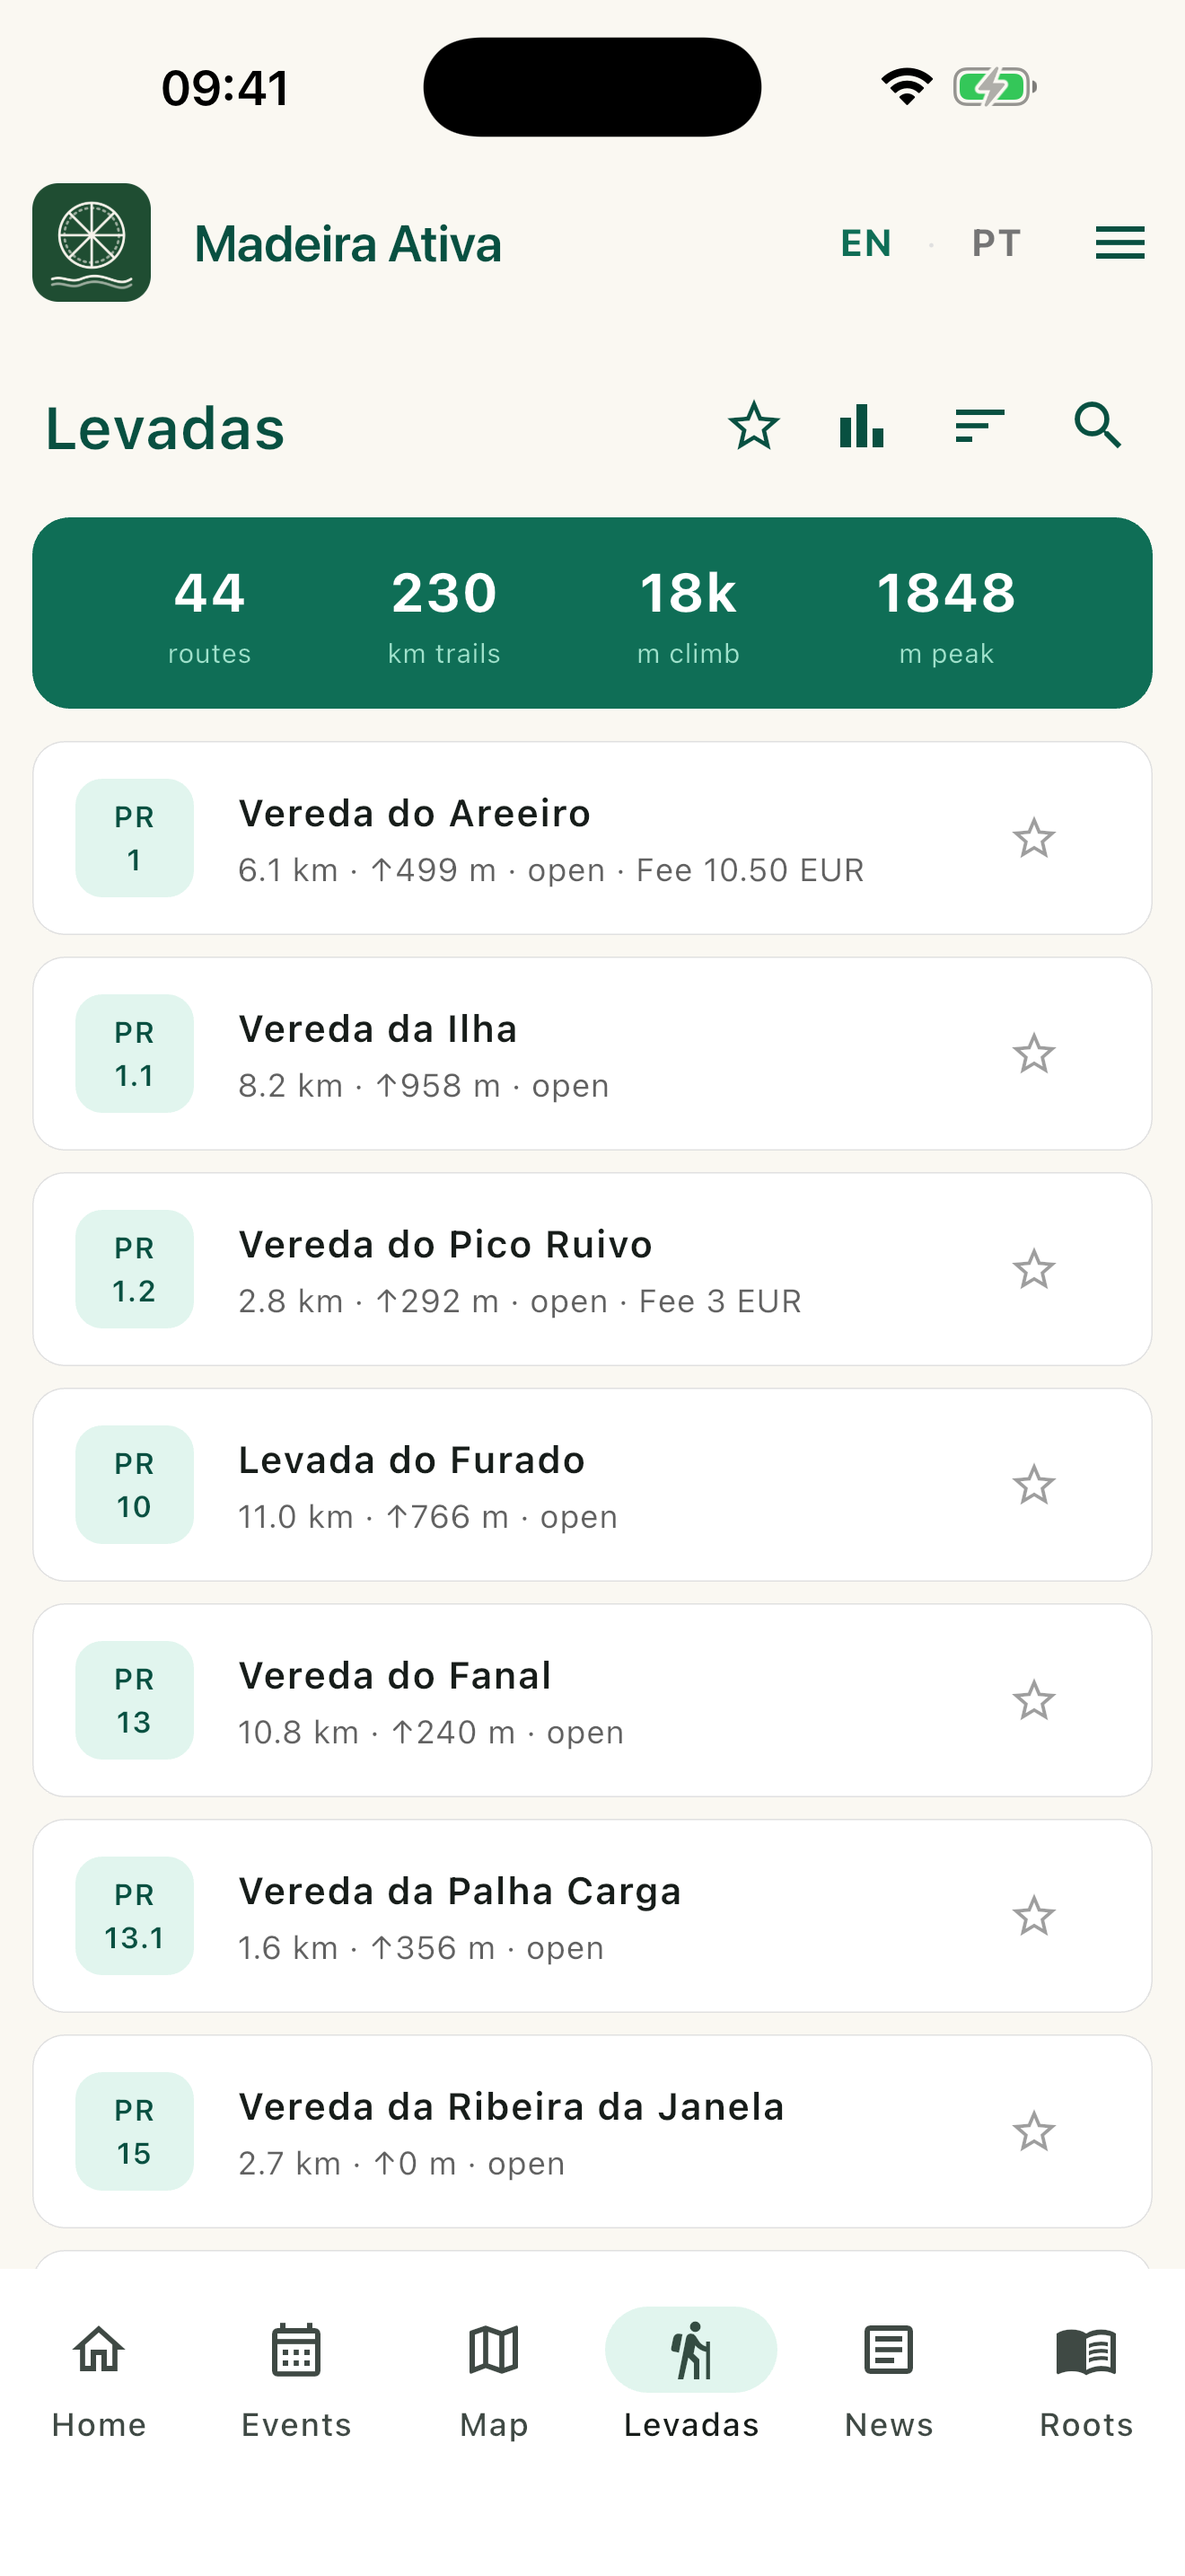
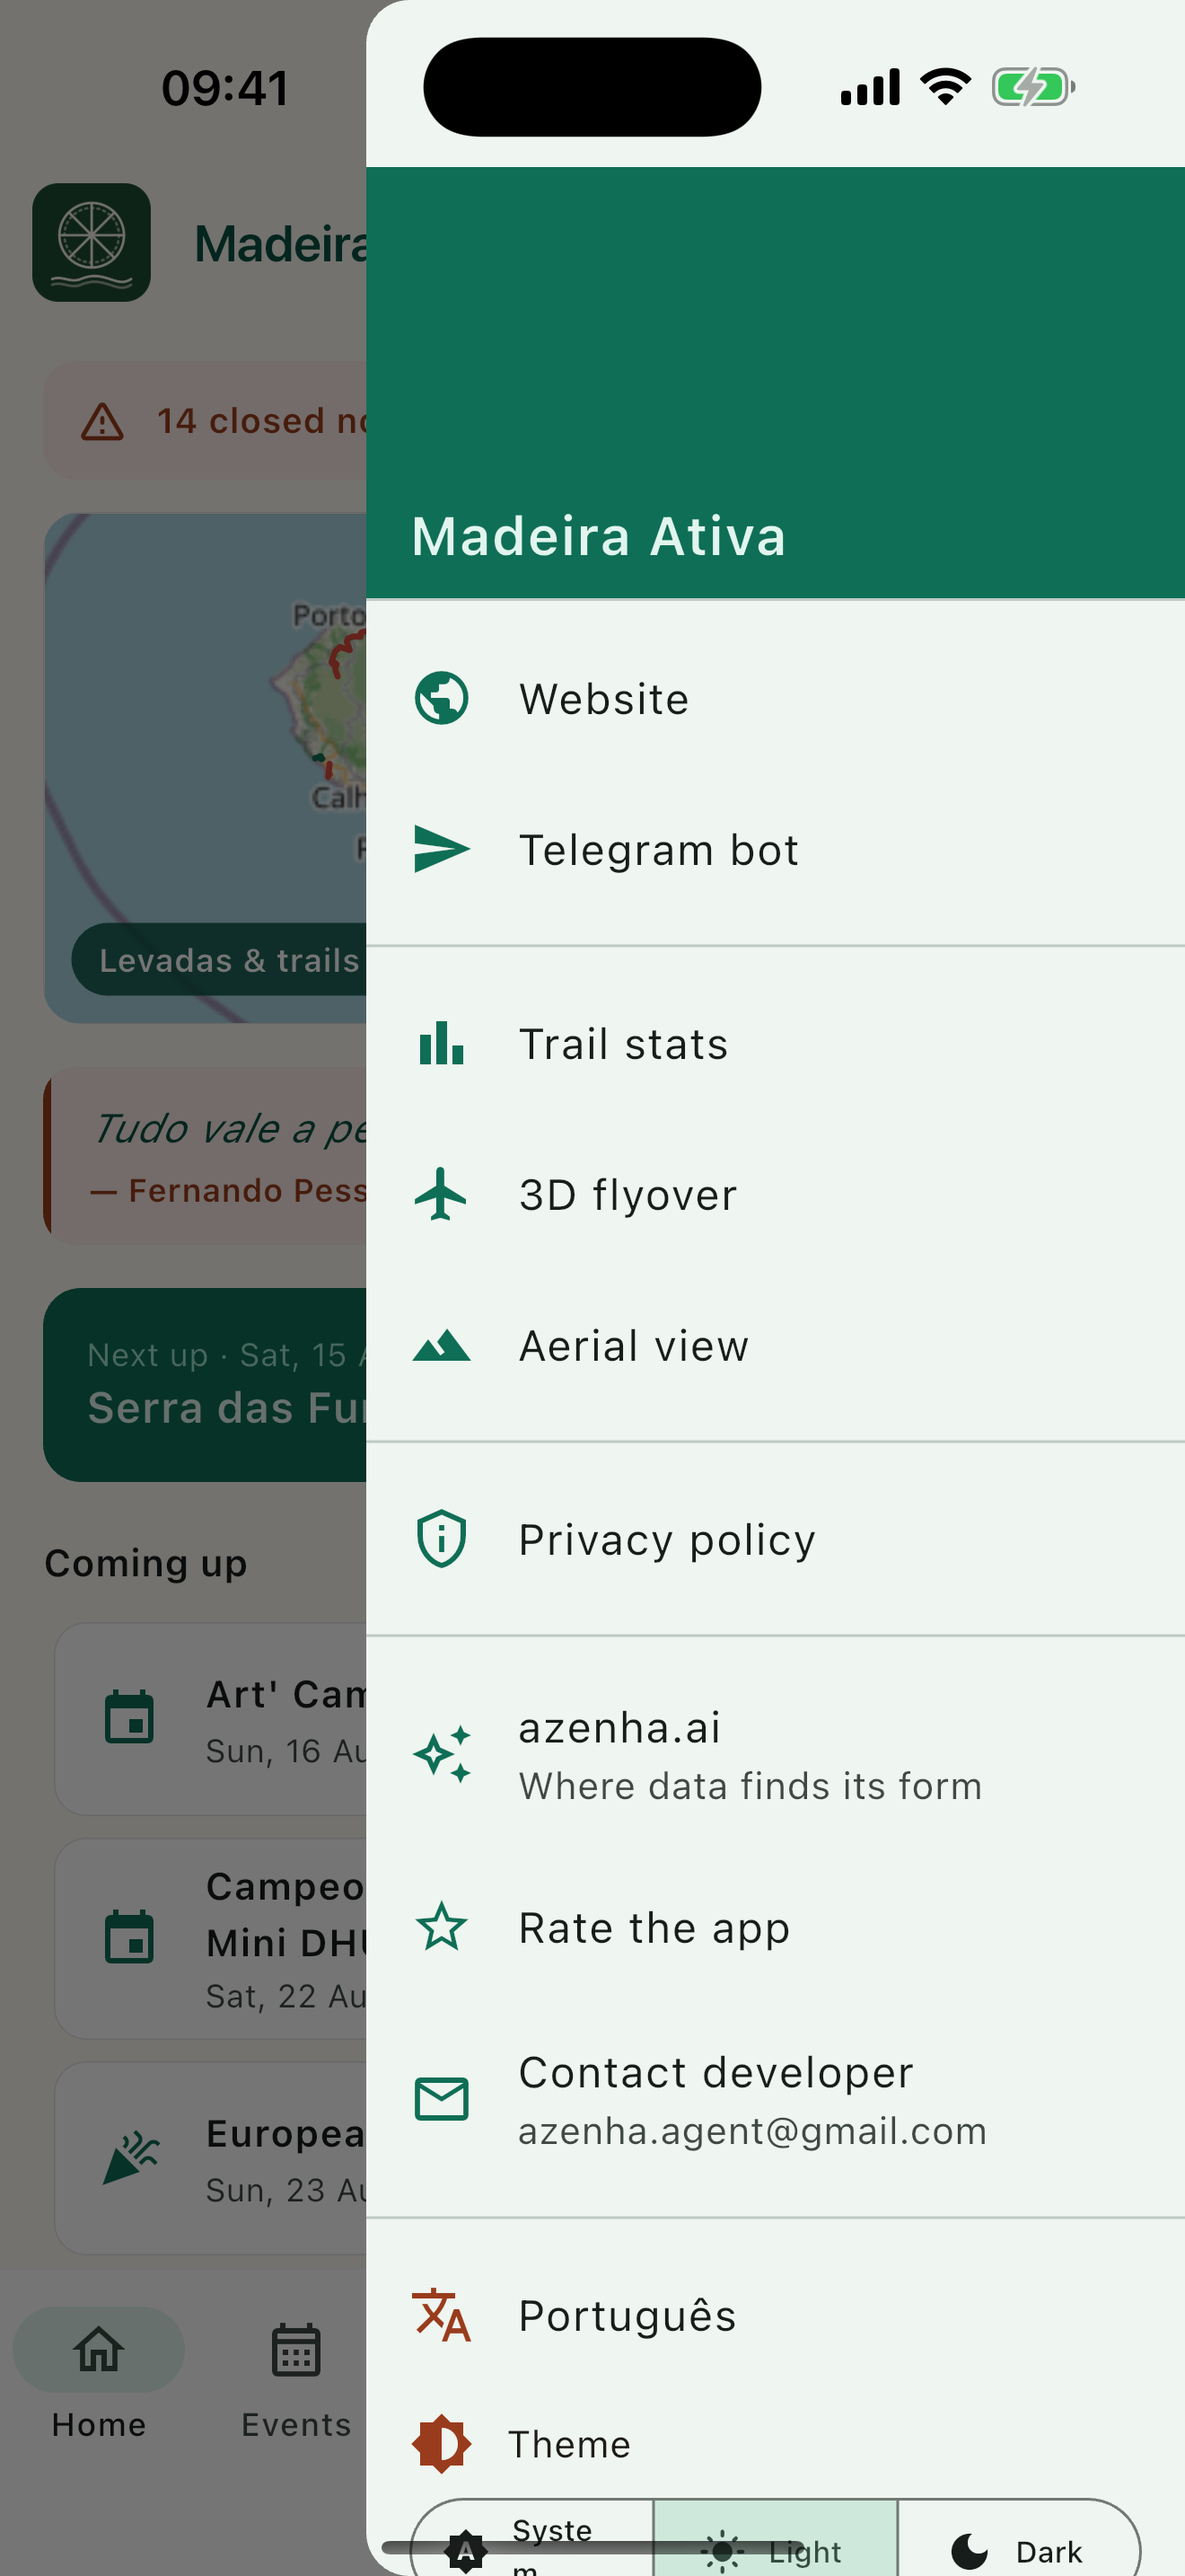
The map agrees with the list about partially open trails, and the album counts itself
The map's trail sheet asked `status == 'open'` and rendered everything else as
a red cross labelled closed. A partially open trail — 5 of the 44 today — was
therefore shown as shut on the map and as partial in the list, and the map is
where someone stands deciding whether to walk. Three states now, same as the row.

The album subtitle claimed nineteen pictures in both languages. roots_data.dart
holds eighteen; the nineteenth match was the constructor.

diff --git a/lib/main.dart b/lib/main.dart
@@ -90,7 +90,7 @@ const _tr = {
     'timeline': 'The timeline',
     'timeline_sub': 'Six hundred years in six chapters — worth a slow scroll.',
     'album': 'The Album',
-    'album_sub': 'Nineteen pictures of old Madeira.',
+    'album_sub': 'Eighteen pictures of old Madeira.',
     'pessoa': 'Tudo vale a pena se a alma não é pequena.',
     'pessoa_by': '— Fernando Pessoa',
     'stat_routes': 'routes',
@@ -178,7 +178,7 @@ const _tr = {
     'timeline': 'A linha do tempo',
     'timeline_sub': 'Seiscentos anos em seis capítulos — vale a pena descer devagar.',
     'album': 'O Álbum',
-    'album_sub': 'Dezanove imagens da Madeira antiga.',
+    'album_sub': 'Dezoito imagens da Madeira antiga.',
     'pessoa': 'Tudo vale a pena se a alma não é pequena.',
     'pessoa_by': '— Fernando Pessoa',
     'stat_routes': 'percursos',
@@ -2319,10 +2319,15 @@ class _MapPageState extends State<MapPage> {
               Text(' ${l.distance} km   '),
               const Icon(Icons.trending_up, size: 16, color: kGreen),
               Text(' ↑${l.ascent} m   '),
-              Icon(l.status == 'open' ? Icons.check_circle : Icons.cancel,
+              Icon(
+                  l.isOpen
+                      ? Icons.check_circle
+                      : (l.isPartial ? Icons.error_outline : Icons.cancel),
                   size: 16,
-                  color: l.status == 'open' ? kGreen : Colors.red),
-              Text(' ${t(l.status == 'open' ? 'open' : 'closed')}'),
+                  color: l.isOpen
+                      ? kGreen
+                      : (l.isPartial ? kTerracotta : Colors.red)),
+              Text(' ${t(l.isOpen ? 'open' : (l.isPartial ? 'partial' : 'closed'))}'),
             ]),
             if (l.fee.isNotEmpty && l.fee != 'None')
               Padding(
